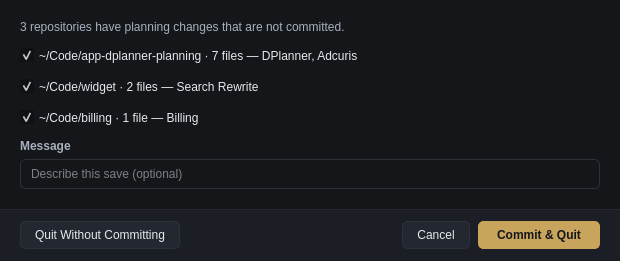
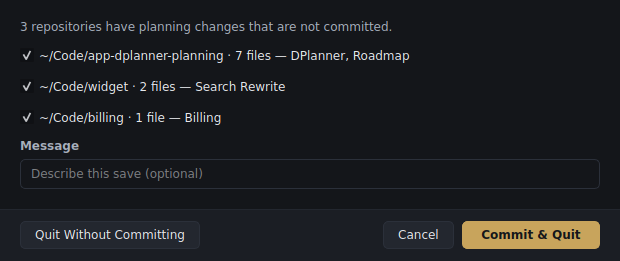
License DPlanner under GPL-3.0-or-later, and take one employer's name out of a sample
LICENSE carries the GNU GPL v3 text, pyproject.toml names the licence and the author,
and README.md's closing section says what the terms mean for someone who wants to use,
sell or fork it, and that the repository is a case study before it is a maintained
product.

The exit-dialog render used a real company's name as sample data, and the two
screenshots baked it in. The row now reads "Roadmap", and the screenshots are
re-rendered from the script.

Claude-Session: https://claude.ai/code/session_01FNv75GL9HTQ3WbFjapgVtD

diff --git a/scripts/render_signalling.py b/scripts/render_signalling.py
@@ -35,7 +35,7 @@ from dplanner.theme import apply_theme
 from dplanner.theme.themes import DARK, LIGHT, Theme
 
 REPOS = [
-    DirtyRepoRow(label="~/Code/app-dplanner-planning · 7 files — DPlanner, Adcuris"),
+    DirtyRepoRow(label="~/Code/app-dplanner-planning · 7 files — DPlanner, Roadmap"),
     DirtyRepoRow(label="~/Code/widget · 2 files — Search Rewrite"),
     DirtyRepoRow(label="~/Code/billing · 1 file — Billing"),
 ]

diff --git a/README.md b/README.md
@@ -502,3 +502,15 @@ on that repo at runtime — the code here is complete and editable — but
 `git -C app-framework diff <revision> -- template/` will show what has changed upstream
 since the fork. `CLAUDE.md` lists the places DPlanner deliberately changed the framework,
 each of which is a candidate to carry back.
+
+## Licence
+
+Copyright © 2026 Knut Åbjørsbråten. DPlanner is free software under the
+[GNU General Public License, version 3 or later](LICENSE): use it, sell it, change it, ship
+it — and whatever you ship that is built from it stays under the same terms, source
+included. Tabler Icons (MIT) and the third-party packages are each under their own licence;
+*Help ▸ About* lists them.
+
+This repository is a personal case study first and a product second. It is published so the
+work can be read, run and built on, not as a promise of maintenance: issues and pull requests
+may sit, and a fork that goes its own way is welcome.
